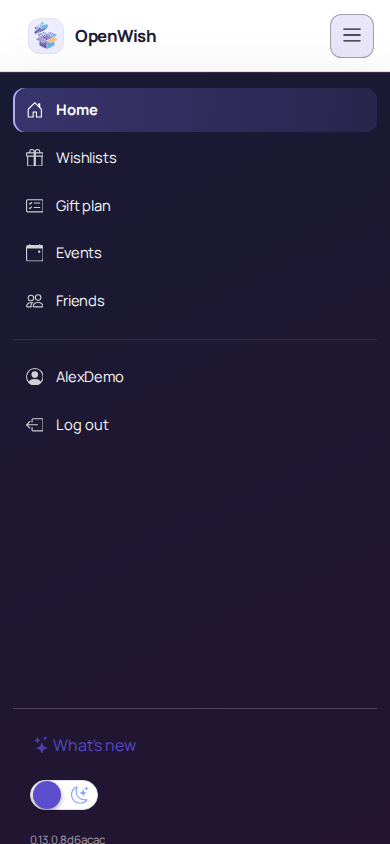
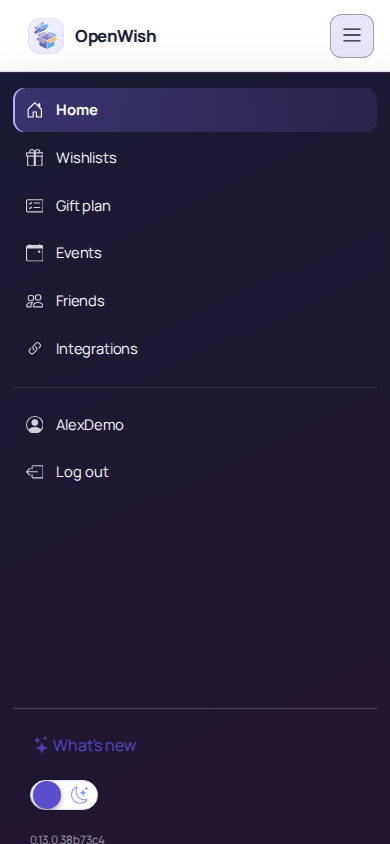
Make integrations discoverable

diff --git a/src/OpenWish.Web/Components/Account/Pages/Manage/ConnectedApps.razor.css b/src/OpenWish.Web/Components/Account/Pages/Manage/ConnectedApps.razor.css
@@ -2,6 +2,29 @@
     max-width: 62ch;
 }
 
+.connected-apps-guide {
+    margin: 1.25rem 0 0;
+    padding: 1rem 0;
+    border-top: 1px solid var(--color-border-muted);
+}
+
+.connected-apps-guide h4 {
+    margin: 0 0 0.35rem;
+    font-size: 1.05rem;
+}
+
+.connected-apps-guide p {
+    max-width: 62ch;
+    margin-bottom: 0.55rem;
+    color: var(--color-text-muted);
+}
+
+.connected-apps-guide-links {
+    display: flex;
+    flex-wrap: wrap;
+    gap: 0.5rem 1rem;
+}
+
 .connected-apps {
     display: grid;
     gap: 1rem;
@@ -283,6 +306,11 @@
     flex: 0 0 auto;
     align-items: center;
     gap: 0.4rem;
+}
+
+.connected-apps-mcp-guide {
+    display: inline-block;
+    margin-top: 0.65rem;
 }
 
 .connected-app-kind {

diff --git a/src/OpenWish.Shared.Tests/Accessibility/InteractiveControlMarkupTests.cs b/src/OpenWish.Shared.Tests/Accessibility/InteractiveControlMarkupTests.cs
@@ -38,6 +38,22 @@ public class InteractiveControlMarkupTests
     }
 
     [Fact]
+    public void Integrations_AreDiscoverableAndExplainAppAndMcpSetup()
+    {
+        var navMenu = ReadComponent("OpenWish.Web", "Components", "Layout", "NavMenu.razor");
+        var accountMenu = ReadComponent("OpenWish.Web", "Components", "Account", "Shared", "ManageNavMenu.razor");
+        var page = ReadComponent("OpenWish.Web", "Components", "Account", "Pages", "Manage", "ConnectedApps.razor");
+
+        Assert.Contains("href=\"Account/Manage/ConnectedApps\"", navMenu, StringComparison.Ordinal);
+        Assert.Contains("<span>Integrations</span>", navMenu, StringComparison.Ordinal);
+        Assert.Contains("href=\"Account/Manage/ConnectedApps\">Integrations</NavLink>", accountMenu, StringComparison.Ordinal);
+        Assert.Contains("Read the app developer guide", page, StringComparison.Ordinal);
+        Assert.Contains("href=\"/llms.txt\"", page, StringComparison.Ordinal);
+        Assert.Contains("OpenWishSettings__Integrations__Mcp__Enabled", page, StringComparison.Ordinal);
+        Assert.Contains("sign in and choose which lists it can use", page, StringComparison.Ordinal);
+    }
+
+    [Fact]
     public void Dashboard_PersistsEachHydratedContentSection()
     {
         var markup = ReadComponent("OpenWish.Web", "Components", "Pages", "Home.razor");

diff --git a/src/OpenWish.Web.Tests/Integrations/McpConnectionTests.cs b/src/OpenWish.Web.Tests/Integrations/McpConnectionTests.cs
@@ -30,6 +30,20 @@ public sealed class McpConnectionTests(OpenWishAppFactory factory)
     private const string LoopbackRedirect = "http://127.0.0.1:33418/callback";
 
     [Fact]
+    public async Task LlmsTxt_IsPublicAndExplainsIntegrationDiscoveryAndConsent()
+    {
+        using var client = factory.CreateApiClient();
+        using var response = await client.GetAsync("llms.txt");
+        var content = await response.Content.ReadAsStringAsync();
+
+        Assert.Equal(HttpStatusCode.OK, response.StatusCode);
+        Assert.Contains("/api/integrations/v1", content);
+        Assert.Contains("OpenWishSettings__Integrations__Mcp__Enabled", content);
+        Assert.Contains("browser sign-in and consent flow", content);
+        Assert.Contains(".docs/INTEGRATIONS.md", content);
+    }
+
+    [Fact]
     public async Task UnauthenticatedRequest_ChallengesWithProtectedResourceMetadata()
     {
         using var client = factory.CreateApiClient();

diff --git a/.docs/INTEGRATIONS.md b/.docs/INTEGRATIONS.md
@@ -89,10 +89,11 @@ scheme detection instead, configure only the actual proxy's addresses in
 Do not trust arbitrary forwarded headers from the internet.
 
 OpenWish validates each entry at startup and logs a warning instead of failing
-when one is incomplete. When no app is valid, the Connected apps page is
-hidden and the OAuth endpoints report that nothing is registered. Plain HTTP
-redirect URIs are accepted for trusted home networks but logged as a warning;
-use HTTPS anywhere else.
+when one is incomplete. The Integrations page remains available in the signed-in
+navigation even when no app is registered, so people can find the setup guide
+and see whether MCP is enabled. When no app is valid, the app OAuth endpoints
+report that nothing is registered. Plain HTTP redirect URIs are accepted for
+trusted home networks but logged as a warning; use HTTPS anywhere else.
 
 For local development with Aspire, put the same keys (with `:` separators) in
 the AppHost user secrets, for example

diff --git a/.docs/releases/2026-11-07-integrations-discoverability.md b/.docs/releases/2026-11-07-integrations-discoverability.md
@@ -1,0 +1,10 @@
+# Find and connect integrations - November 7, 2026
+
+The Integrations page is now reachable from the main navigation and account
+settings, even when no apps are registered. It explains how to build a
+server-side app, links to the integration guide and public `llms.txt`, and
+shows whether this OpenWish has enabled its optional MCP server.
+
+When MCP is enabled, people can copy its address and connect through a browser
+sign-in and consent flow, then choose which lists the assistant may use. No
+password or bearer token needs to be copied into an assistant.
